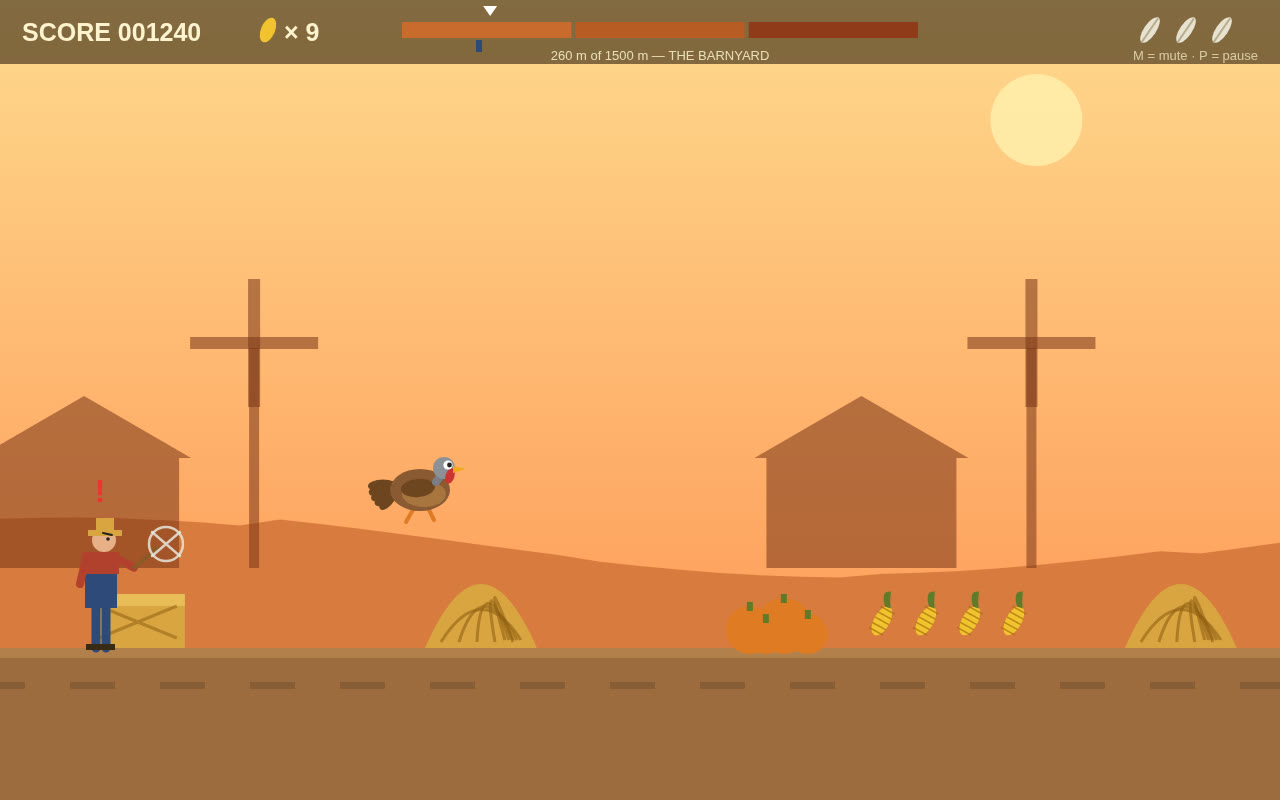
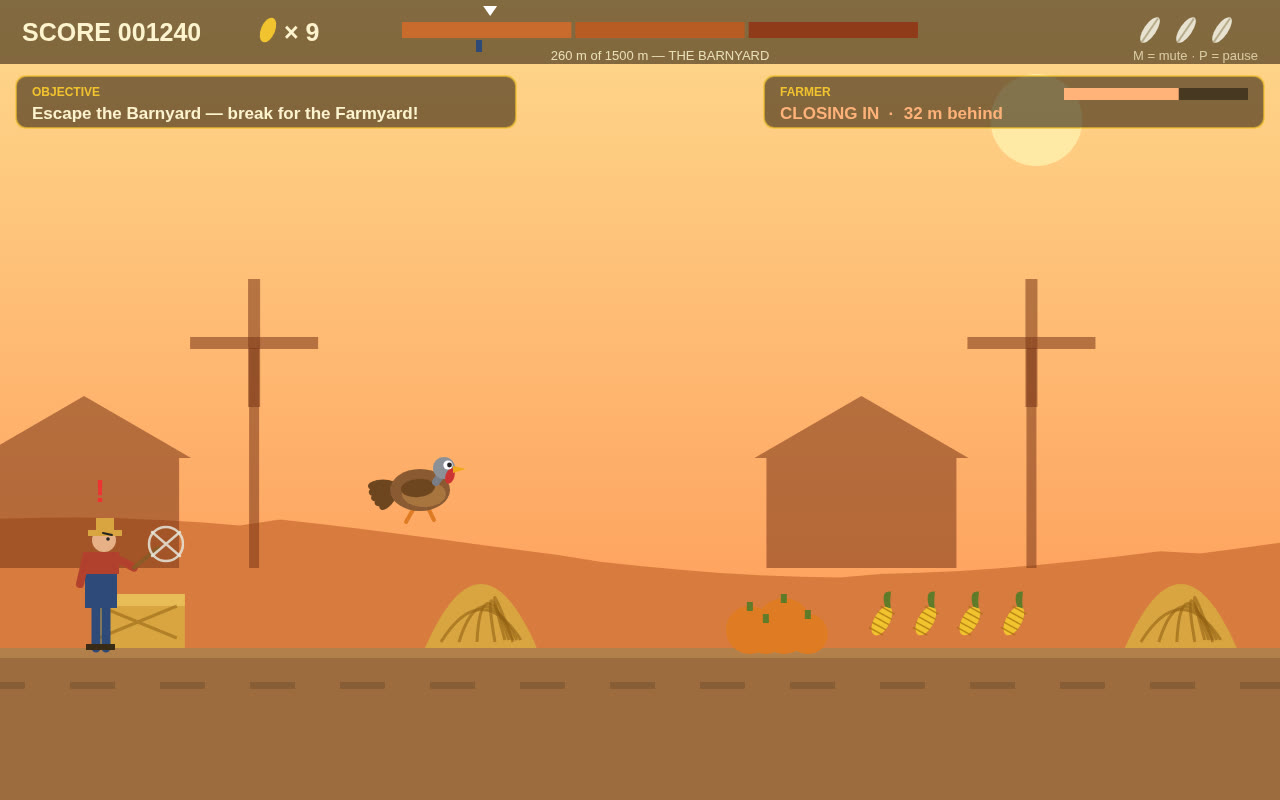
Enrich HUD: objective panel + farmer phase/distance meter

Changed region(s): [[0.5938, 0.0938, 1.0, 0.1875], [0.0, 0.0938, 0.4062, 0.1875]]

diff --git a/game/src/render.js b/game/src/render.js
@@ -398,6 +398,33 @@ export function createRenderer(ctx) {
     ctx.restore();
   }
 
+  // The current quest step, in the turkey's own terms. It follows the
+  // run: hiding beats everything, the gate beats the stage, and each
+  // stage asks for its own kind of courage.
+  function objectiveText(S) {
+    const t = S.turkey;
+    if (t.hidden) return "Stay hidden — let him lose your trail!";
+    if (1500 - Math.floor(S.distM) <= 120) return "The Pardon Gate is right there — RUN!";
+    const idx = STAGES.indexOf(stageAt(t.x));
+    if (idx === 0) return "Escape the Barnyard — break for the Farmyard!";
+    if (idx === 1) return "Cross the Farmyard — the Kitchen lies ahead!";
+    return "Survive the Kitchen — duck the flying knives!";
+  }
+
+  // How the hunt stands, from the farmer's own state and the honest
+  // gap between his net and the turkey's tail feathers, in metres.
+  // heat runs 0 (no menace) to 1 (net practically on the tail).
+  function farmerPhase(S) {
+    const gapPx = Math.max(0, S.turkey.x - S.farmer.x);
+    const gapM = Math.round(gapPx / PX_PER_M);
+    if (S.farmer.state === "stunned") return { label: "STUNNED!", gapM, heat: 0, color: "#ffd34d" };
+    if (S.farmer.state === "search") return { label: "SEARCHING — he lost you", gapM, heat: 0.25, color: "#aef2a0" };
+    const heat = Math.max(0.06, Math.min(1, 1 - gapPx / 850));
+    if (gapPx < 300) return { label: "ON YOUR TAIL!", gapM, heat, color: "#ff7a5c" };
+    if (gapPx < 560) return { label: "CLOSING IN", gapM, heat, color: "#ffb27a" };
+    return { label: "ON THE HUNT", gapM, heat, color: "#ffe1a8" };
+  }
+
   function drawHUD(S) {
     ctx.fillStyle = "rgba(30,14,2,.55)"; ctx.fillRect(0, 0, VIEW_W, 64);
     ctx.fillStyle = "#fdf3d0"; ctx.font = `bold 25px ${FONT}`; ctx.textAlign = "left";
@@ -423,6 +450,30 @@ export function createRenderer(ctx) {
     for (let i = 0; i < START_FEATHERS; i++) featherIcon(1150 + i * 36, 30, i < S.turkey.feathers);
     ctx.fillStyle = "rgba(253,243,208,.7)"; ctx.font = `13px ${FONT}`; ctx.textAlign = "right";
     ctx.fillText(S.muted ? "MUTED (M)" : "M = mute · P = pause", 1258, 60);
+    // Quest panels under the bar: the objective on the left, the
+    // farmer's menace on the right — the two things a running turkey
+    // needs to know at a glance.
+    ctx.textAlign = "left";
+    ctx.fillStyle = "rgba(30,14,2,.55)";
+    ctx.beginPath(); ctx.roundRect(16, 76, 500, 52, 10); ctx.fill();
+    ctx.strokeStyle = "rgba(242,194,48,.65)"; ctx.lineWidth = 2;
+    ctx.beginPath(); ctx.roundRect(16, 76, 500, 52, 10); ctx.stroke();
+    ctx.fillStyle = "#f2c230"; ctx.font = `bold 12px ${FONT}`;
+    ctx.fillText("OBJECTIVE", 32, 96);
+    ctx.fillStyle = "#fdf3d0"; ctx.font = `bold 17px ${FONT}`;
+    ctx.fillText(objectiveText(S), 32, 119);
+    const fp = farmerPhase(S);
+    ctx.fillStyle = "rgba(30,14,2,.55)";
+    ctx.beginPath(); ctx.roundRect(VIEW_W - 516, 76, 500, 52, 10); ctx.fill();
+    ctx.strokeStyle = "rgba(242,194,48,.65)"; ctx.lineWidth = 2;
+    ctx.beginPath(); ctx.roundRect(VIEW_W - 516, 76, 500, 52, 10); ctx.stroke();
+    ctx.fillStyle = "#f2c230"; ctx.font = `bold 12px ${FONT}`;
+    ctx.fillText("FARMER", VIEW_W - 500, 96);
+    ctx.fillStyle = fp.color; ctx.font = `bold 17px ${FONT}`;
+    ctx.fillText(`${fp.label}  ·  ${fp.gapM} m behind`, VIEW_W - 500, 119);
+    // Menace meter: fills and warms as he closes in.
+    ctx.fillStyle = "rgba(0,0,0,.45)"; ctx.fillRect(VIEW_W - 216, 88, 184, 12);
+    ctx.fillStyle = fp.color; ctx.fillRect(VIEW_W - 216, 88, 184 * fp.heat, 12);
     // Stage banner.
     if (S.stageFlash) {
       const a = Math.min(1, S.stageFlash.t * 2, (1.6 - S.stageFlash.t) * 1.4);
